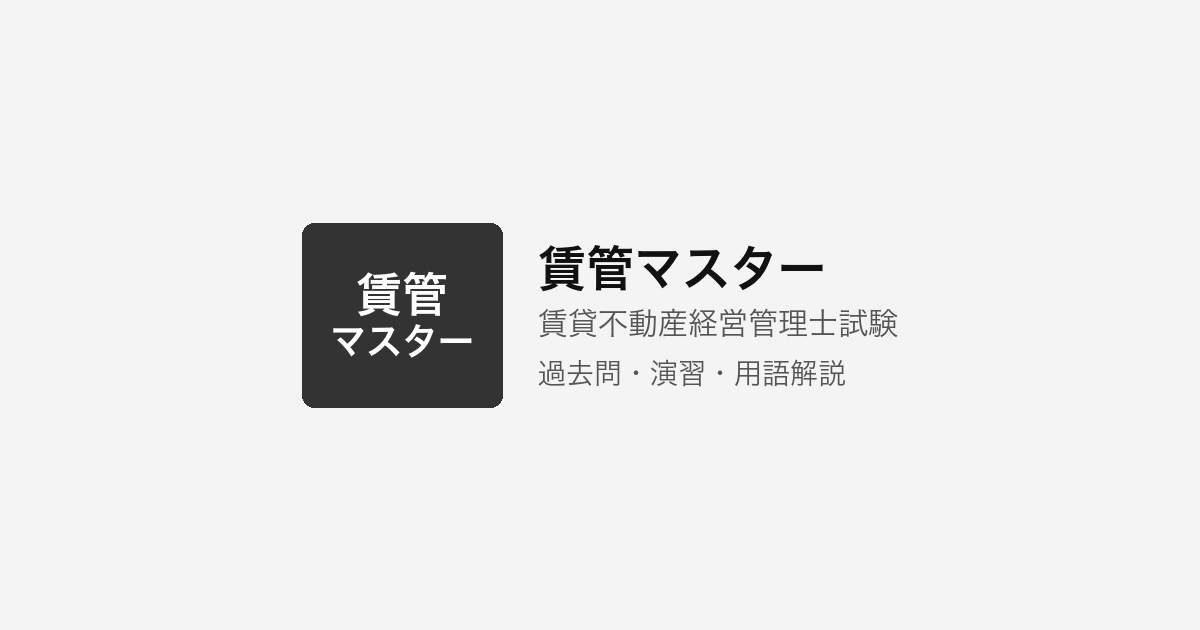
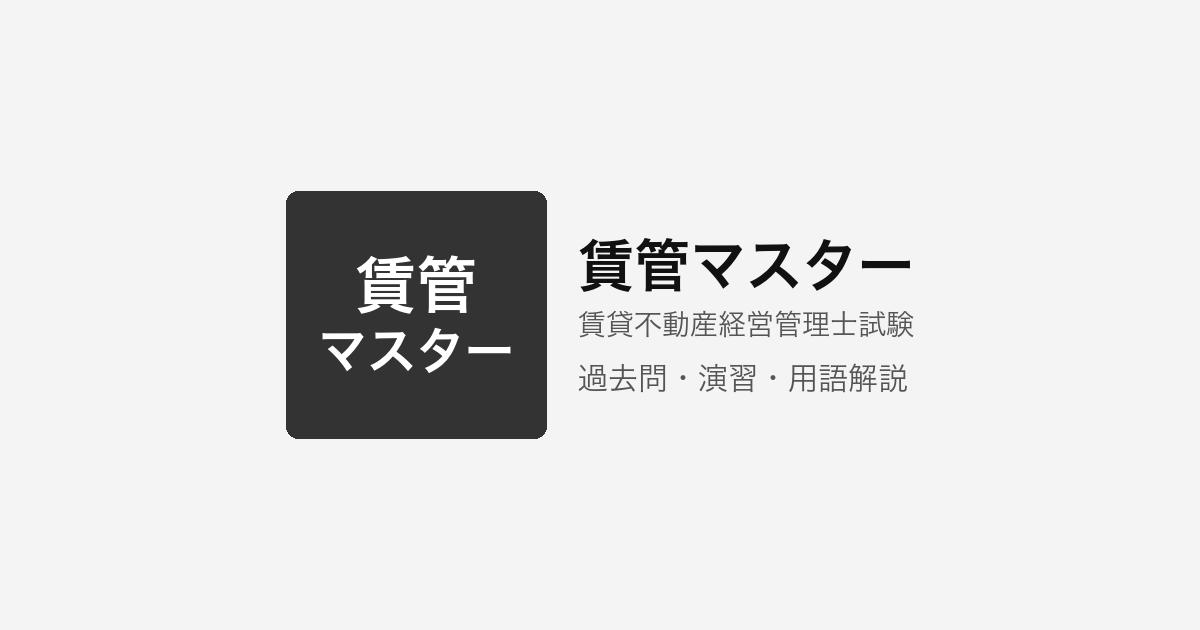
fix: OGP のロゴ・文字サイズを拡大
安全域内でロゴ・テキストを大きく表示するよう og-image を再生成。

Changed region(s): [[0.2158, 0.3016, 0.7708, 0.7238]]

diff --git a/tools/brand_assets.py b/tools/brand_assets.py
@@ -23,7 +23,7 @@ MARKER = "<!--BRAND_ASSET_HEAD-->"
 OG_WIDTH = 1200
 OG_HEIGHT = 630
 # SNS の 1:1 中央クロップ（630×630）でも切れないよう、コンテンツ幅をこの範囲に収める
-OG_SAFE_WIDTH = 620
+OG_SAFE_WIDTH = 630
 
 
 def _font_candidates(*, bold: bool) -> list[Path]:
@@ -189,15 +189,15 @@ def render_og_image():
     measure = Image.new("RGB", (w, h), bg)
     mdraw = ImageDraw.Draw(measure)
 
-    gap = 36
-    name_gap, exam_gap = 16, 22
+    gap = 32
+    name_gap, exam_gap = 18, 24
     layout = None
-    for box_w in (200, 180, 160, 140, 120):
-        box_h = max(110, int(box_w * 0.92))
+    for box_w in (260, 250, 240, 230, 220, 210, 200, 190, 180, 170, 160, 150, 140, 130, 120):
+        box_h = max(120, int(box_w * 0.95))
         text_max_w = OG_SAFE_WIDTH - box_w - gap
-        name_font, name_size = _fit_font(mdraw, name, text_max_w, 48, bold=True)
-        exam_font, exam_size = _fit_font(mdraw, exam, text_max_w, 30, bold=False)
-        tag_font, tag_size = _fit_font(mdraw, tagline, text_max_w, 28, bold=False)
+        name_font, name_size = _fit_font(mdraw, name, text_max_w, 56, bold=True)
+        exam_font, exam_size = _fit_font(mdraw, exam, text_max_w, 36, bold=False)
+        tag_font, tag_size = _fit_font(mdraw, tagline, text_max_w, 32, bold=False)
         text_w = max(
             mdraw.textlength(name, font=name_font),
             mdraw.textlength(exam, font=exam_font),
@@ -228,12 +228,12 @@ def render_og_image():
 
     if layout is None:
         # 横並びが収まらない場合: ロゴ＋テキストを縦積みで中央配置
-        mark_w, mark_h = 220, 200
-        text_max_w = OG_SAFE_WIDTH - 40
-        name_font, name_size = _fit_font(mdraw, name, text_max_w, 44, bold=True)
-        exam_font, exam_size = _fit_font(mdraw, exam, text_max_w, 28, bold=False)
-        tag_font, tag_size = _fit_font(mdraw, tagline, text_max_w, 26, bold=False)
-        stack_gap, line_gap = 28, 14
+        mark_w, mark_h = 260, 240
+        text_max_w = OG_SAFE_WIDTH - 20
+        name_font, name_size = _fit_font(mdraw, name, text_max_w, 52, bold=True)
+        exam_font, exam_size = _fit_font(mdraw, exam, text_max_w, 34, bold=False)
+        tag_font, tag_size = _fit_font(mdraw, tagline, text_max_w, 30, bold=False)
+        stack_gap, line_gap = 32, 16
         content_w = int(
             max(
                 mark_w,
